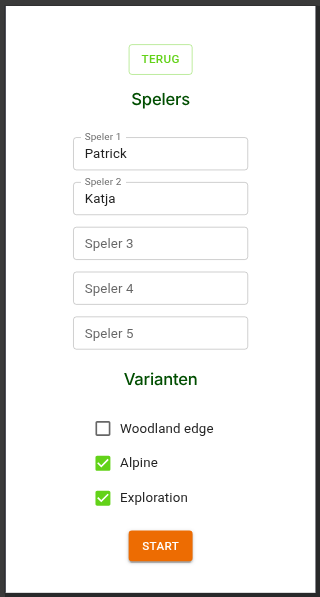
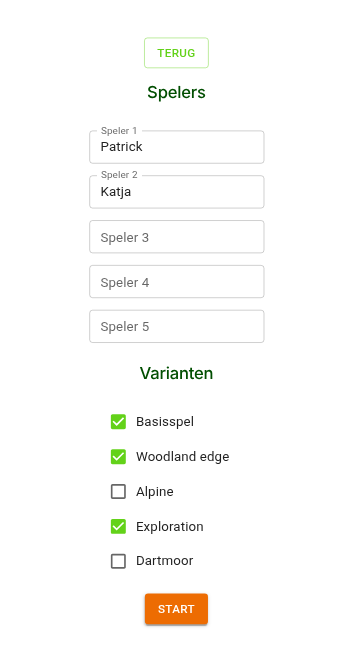
game img

diff --git a/README.md b/README.md
@@ -3,7 +3,7 @@ De code voor de mobiele web app (alleen in het nederlands) [Forest Shuffle Score
 ## Eerste opmerkingen
 
 - Je voert het aantal kaarten van elk type in, en beantwoord enkele vragen over kaart-aantallen, en de app berekent de score.
-- De score kan worden bijgehouden voor het basisspel, en eventueel de varianten Woodland Edge (bosrand), Alpine, en Exploration.
+- De score kan worden bijgehouden voor het basisspel, Dartmoor, en eventueel de varianten Woodland Edge (bosrand), Alpine, en Exploration.
 - Standaard begint het spel met de gebruikers Patrick en Katja. Je kunt deze aanpassen bij het begin van een nieuw spel.
 - Je input wordt bijgehouden in je browser (local storage).
 - De kaart-input wordt gewist aan het begin van elk nieuw spel. Er worden geen historische resultaten bijgehouden.